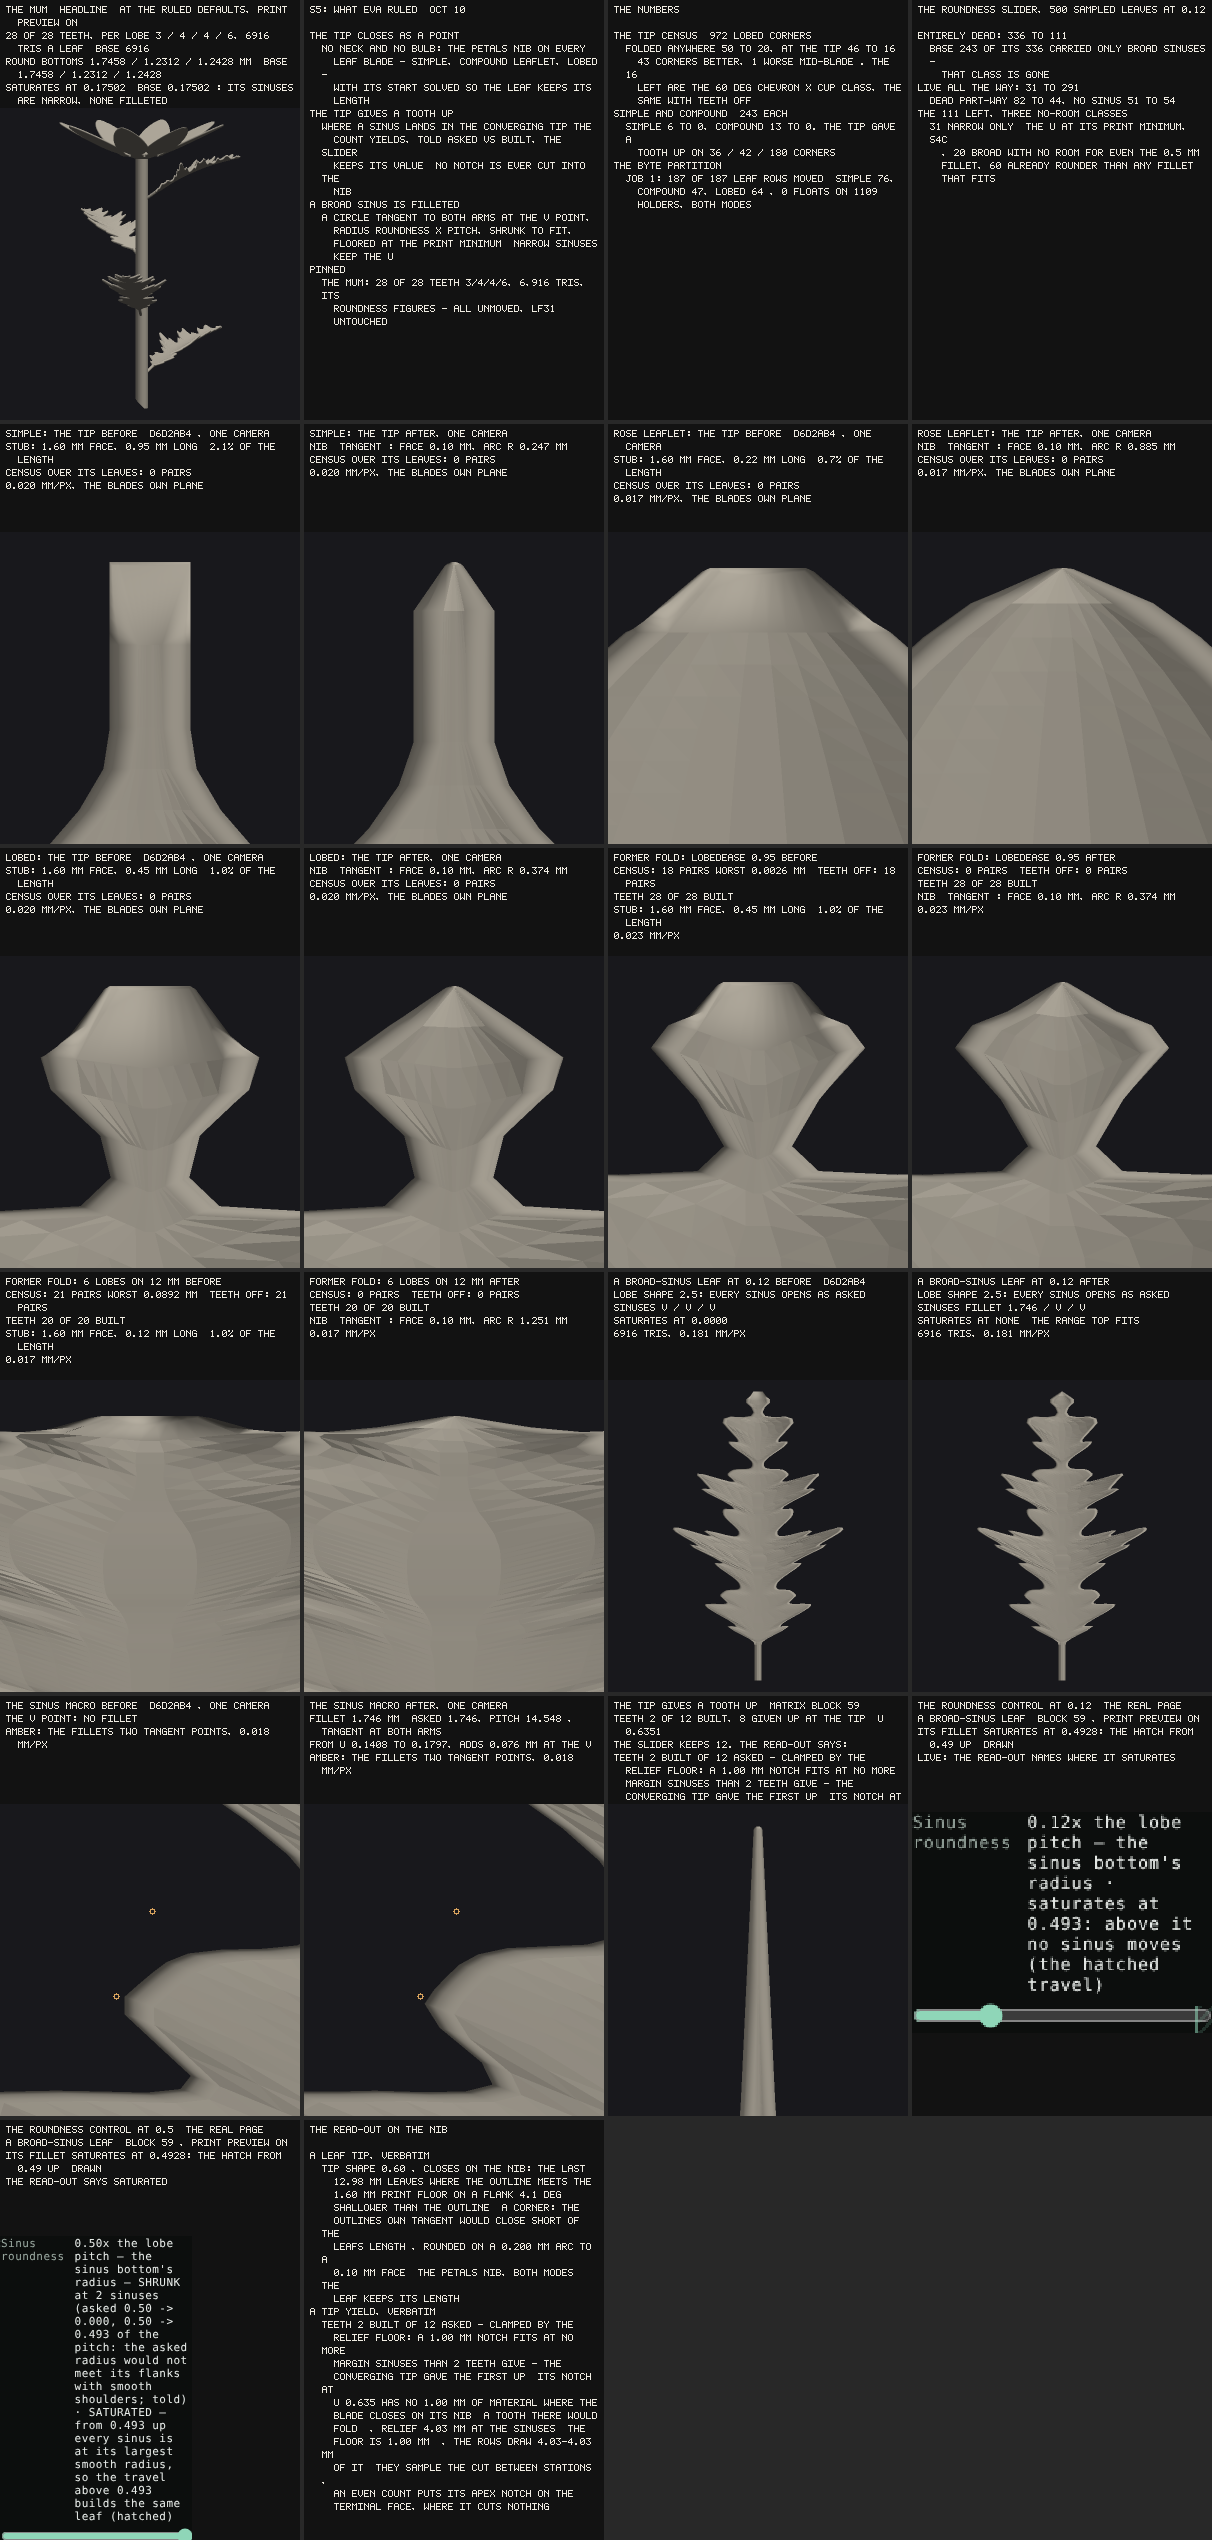
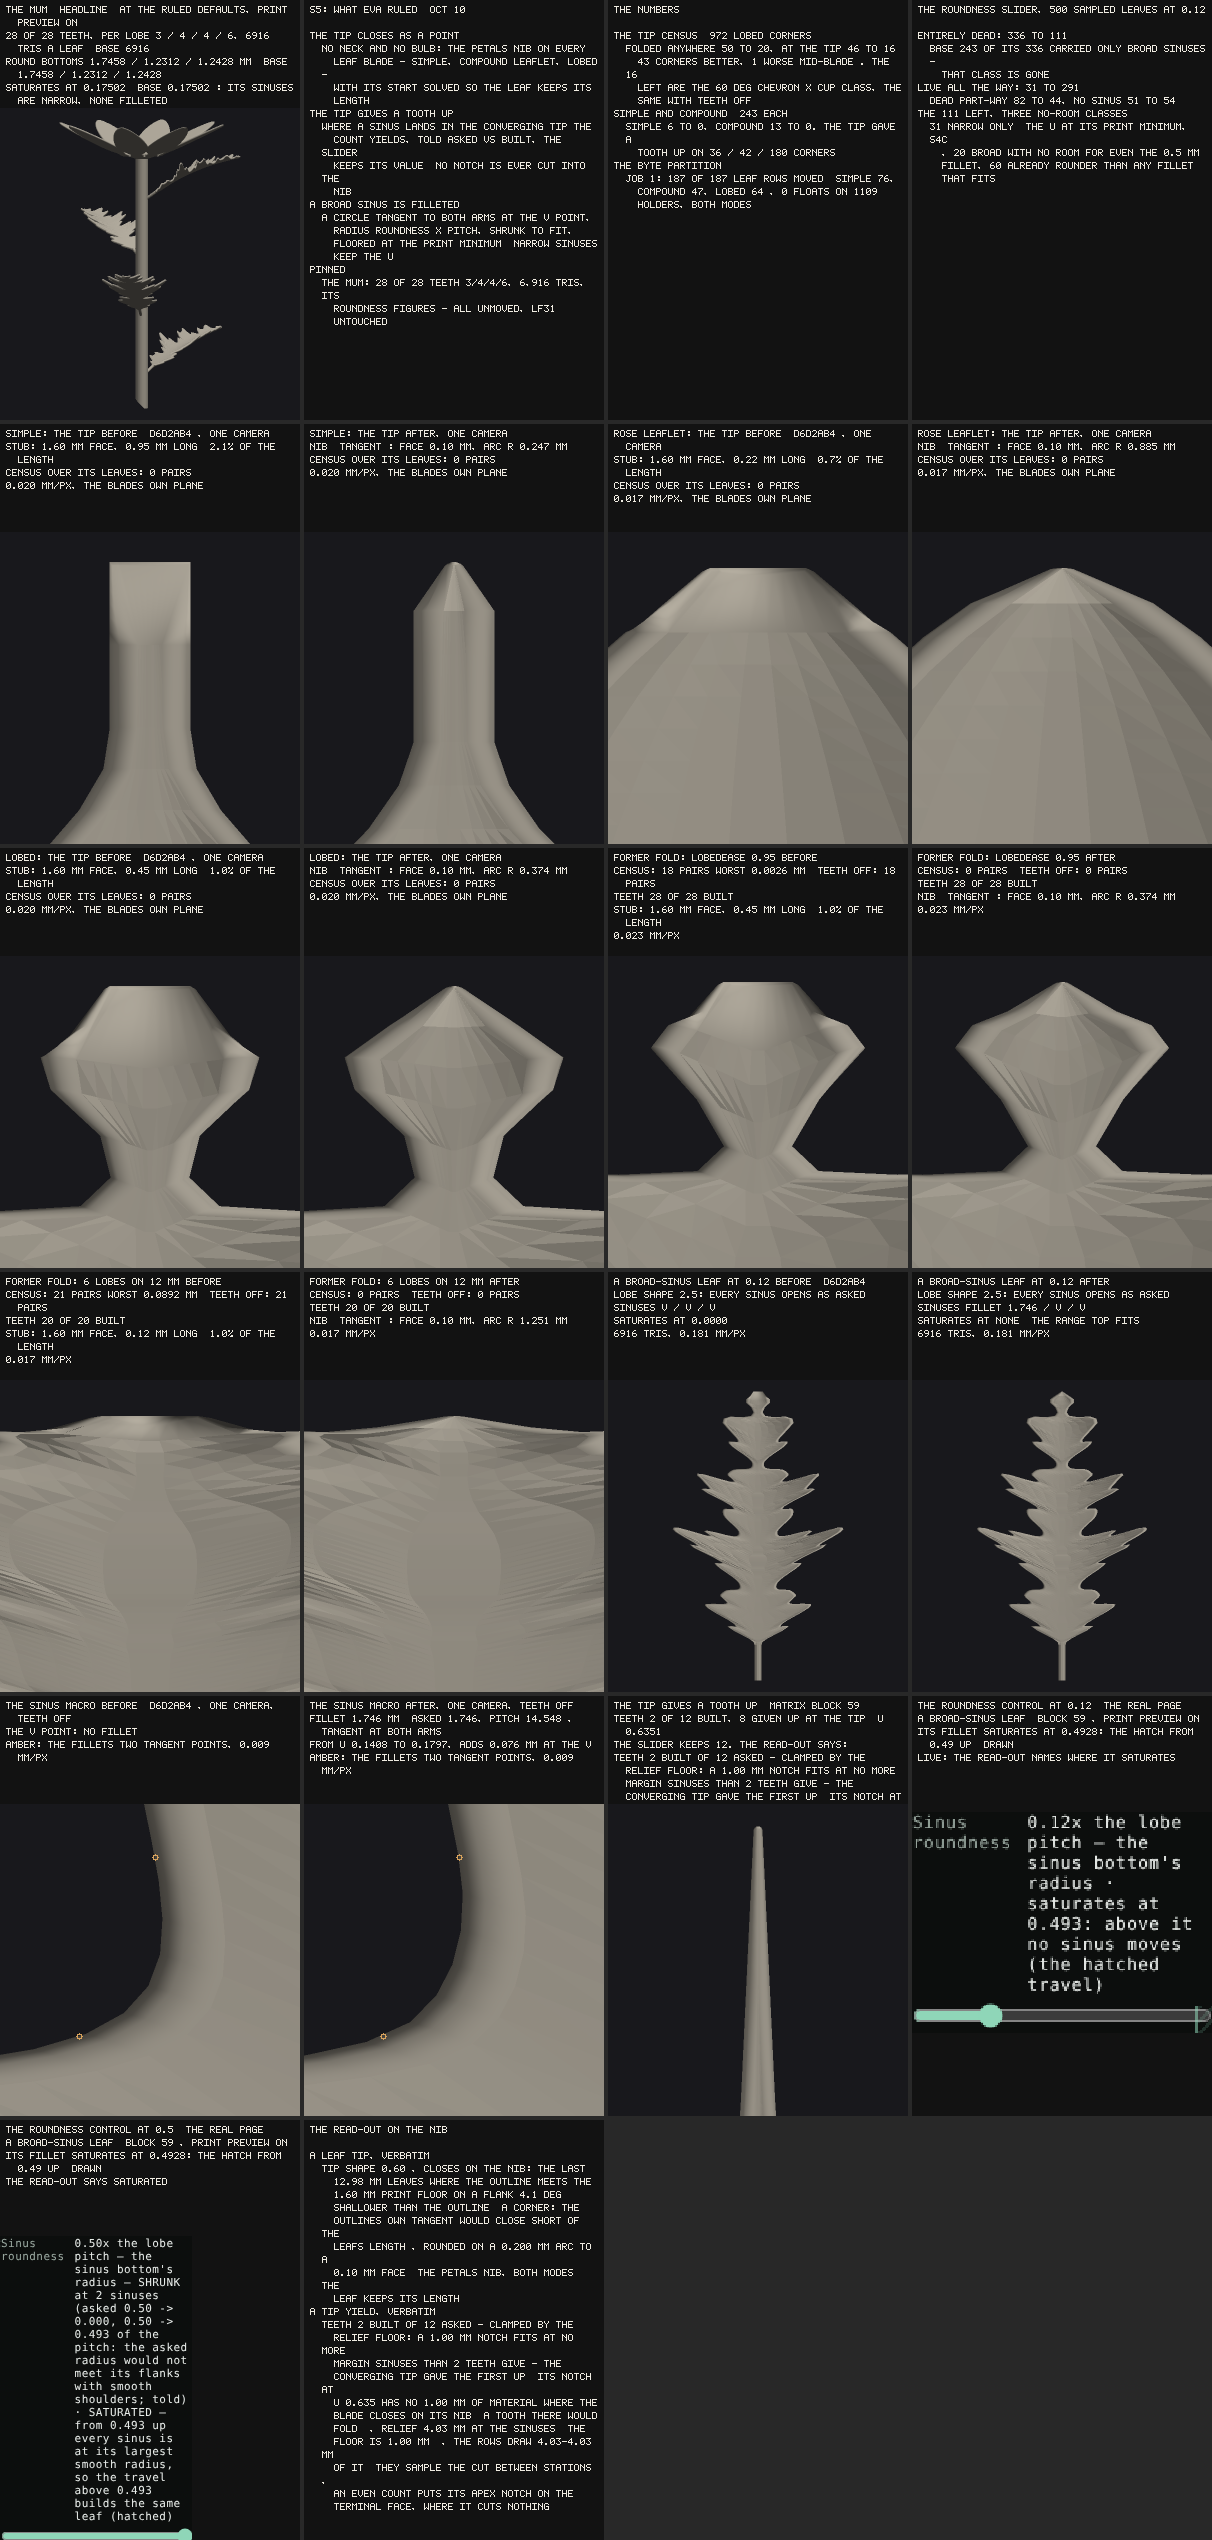
S5 outcome doc: the Job 2 partition
Claude-Session: https://claude.ai/code/session_01NQjGVsDq1poeRwr3qvbXFG

Changed region(s): [[0.2442, 0.6843, 0.519, 0.8398], [0.0, 0.6843, 0.2442, 0.8398]]

diff --git a/docs/bloom-leaf-tip-broad-sinus-outcome.md b/docs/bloom-leaf-tip-broad-sinus-outcome.md
@@ -258,7 +258,7 @@ closed with `--merge`.
   petal's nib reads `nibCrossing` through a refactor. **PASS: 187 of 187 predeclared movers moved (SIMPLE 76, COMPOUND 47, LOBED 64 — each counted by the base tree's own plan type) and 0 floats moved on the 1,109 holders**, over 1,587,100,788 export floats / 176,344,532 triangles and 84,048,024 captured-grid values, the whole 1,296-row matrix in both modes.
 - **Job 2 (`broad-fillet`, against the head with the fillet branch stripped).** A row
   moves iff this tree fillets a broad sinus on it. Every other row holds to the bit,
-  narrow-sinus lobed leaves included. PARTITION_JOB2
+  narrow-sinus lobed leaves included. **PASS: 10 of 10 predeclared movers moved and 0 floats moved on the 1,286 holders** — among them **54 of the 64 lobed rows**, every one whose sinuses are narrow or whose broad fillet touches no drawn row (the mum included). The ten movers: the four block-59 `BROAD SINUS` rows, `LOBED: lobedLobes min`, `lobedShape max`, `a 10 mm envelope`, `leafTipShape min`, `LOBED ROUNDNESS: 0.5 x one lobe a side` and S4c's told shoulder corner. Over the same 1,587,100,788 floats and 84,048,024 grid values, both modes.
 
 ---
 
